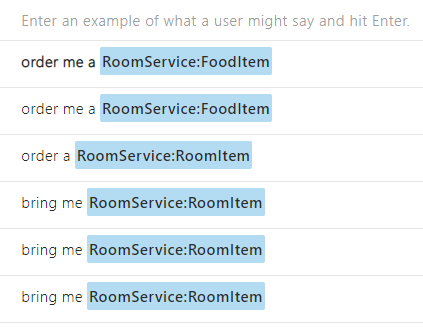
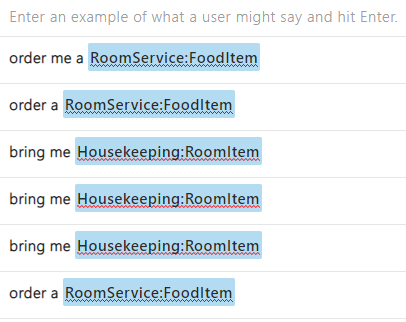
Realigned utterances for the housekeeping entity, room item role.

diff --git a/Hands-on lab/HOL step-by-step - Intelligent analytics.md b/Hands-on lab/HOL step-by-step - Intelligent analytics.md
@@ -1333,7 +1333,7 @@ In this task, you will create a LUIS app, publish it, and then enable the Event 
 
     - Enter **FoodItem** and hit the Enter key.
   
-19. Repeat the same steps for Housekeeping entity and RoomItem role.
+19. Repeat steps 14 to 18 and create a **Housekeeping** entity with its associated **RoomItem** role.
 
     ![The screenshot shows the finished entities list.](media/2019-11-24-10-56-53.png "LUIS Entity List")
 
@@ -1359,13 +1359,13 @@ In this task, you will create a LUIS app, publish it, and then enable the Event 
 
     - Text to select: **toothpaste**
 
-    - Entity: **RoomService:RoomItem**
+    - Entity: **Housekeeping:RoomItem**
 
 24. Repeat this process for the following phrases (text to select is in bold):
 
-    - **Bring me towels \| RoomService:RoomItem**
+    - **Bring me towels \| Housekeeping:RoomItem**
 
-    - **Bring me blankets \| RoomService:RoomItem**
+    - **Bring me blankets \| Housekeeping:RoomItem**
 
     - **Order a soda \| RoomService:FoodItem**
 
@@ -1383,11 +1383,11 @@ In this task, you will create a LUIS app, publish it, and then enable the Event 
 
 27. Select Publish App from the menu on the top.
 
-28. When the publish completes, Refer to Keys and Endpoints under Manage in menu bar for Endpoint URL.
+28. When the publish completes, Refer to Keys and Endpoints under Manage in menu bar for an Example Query URL.
 
     ![The application settings menu is displayed. The Azure resources menu item is selected. The LUIS key information is displayed.](media/2019-11-18-18-58-03.png "LUIS Key Information")
 
-29. This will open a new tab in your browser. Modify the end of the URL (the text following q= ) so it contains the phrase "bring me towels," and press ENTER. You should receive output similar to the following. Observe that it correctly identified the intent as OrderIn (in this case with a confidence of 0.9999995 or nearly 100%) and the entity as pizza having an entity type of Housekeeping:RoomItem (in this case with a confidence score of 96.9%).
+29. Open a new tab in your browser. Paste the example query URL into the address bar and modify the end of the URL (the text following q= ) so it contains the phrase "bring me towels," and press ENTER. You should receive output similar to the following. Observe that it correctly identified the intent as OrderIn (in this case with a confidence of 0.9999995 or nearly 100%) and the entity as pizza having an entity type of Housekeeping:RoomItem (in this case with a confidence score of 96.9%).
 
     ![An example of the LUIS call JSON result is displayed.](media/2019-11-24-11-14-17.png "Sample LUIS Response")
 
